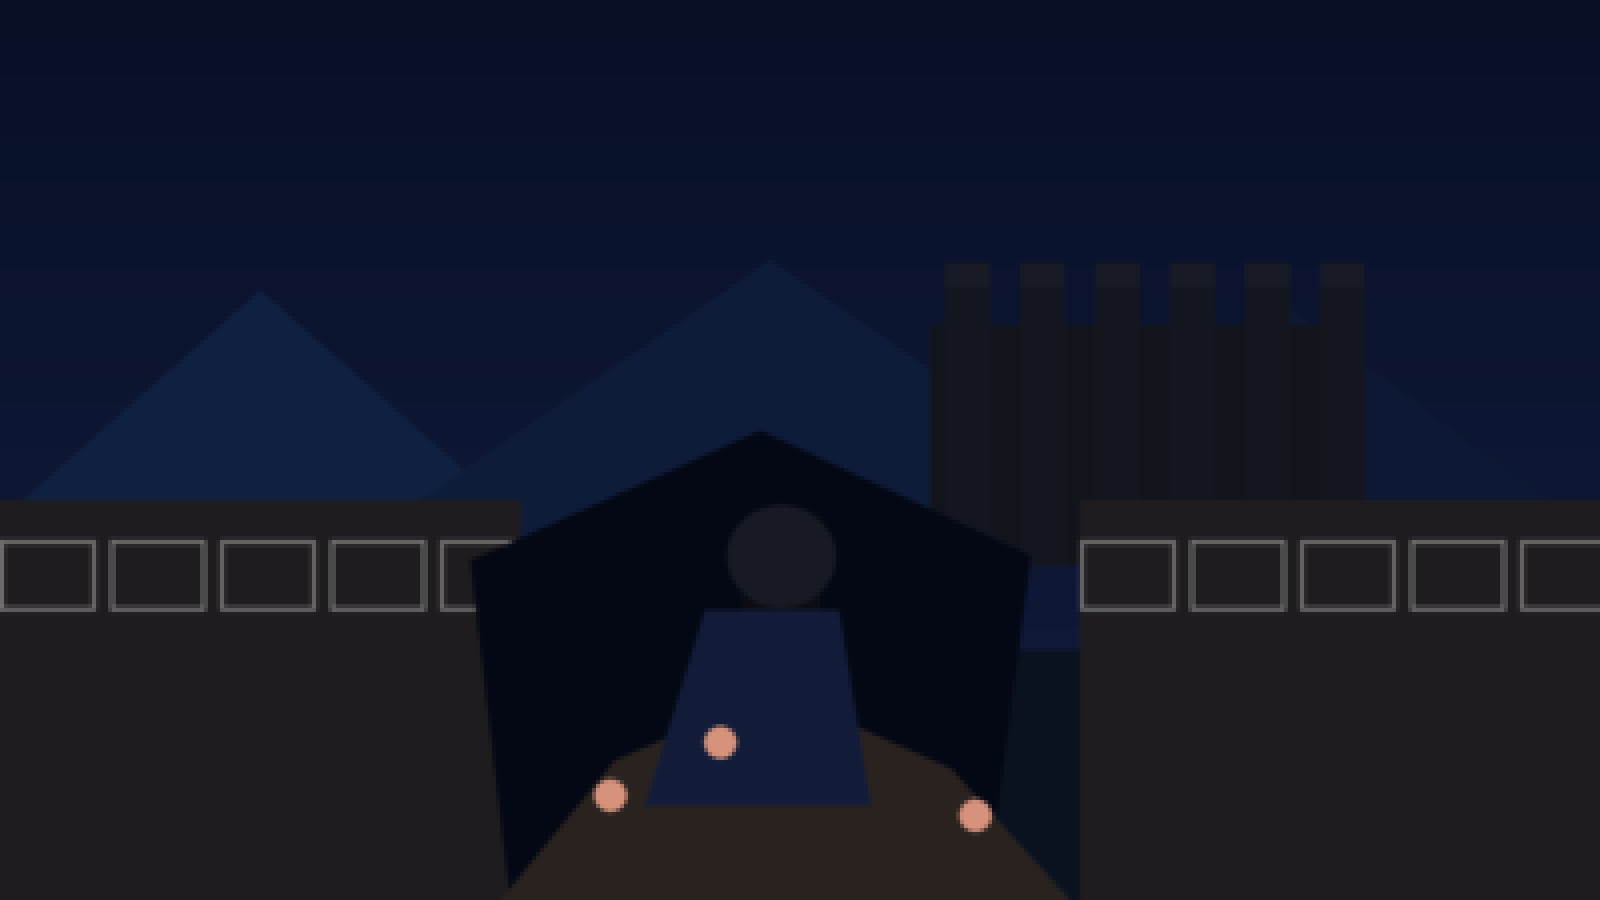
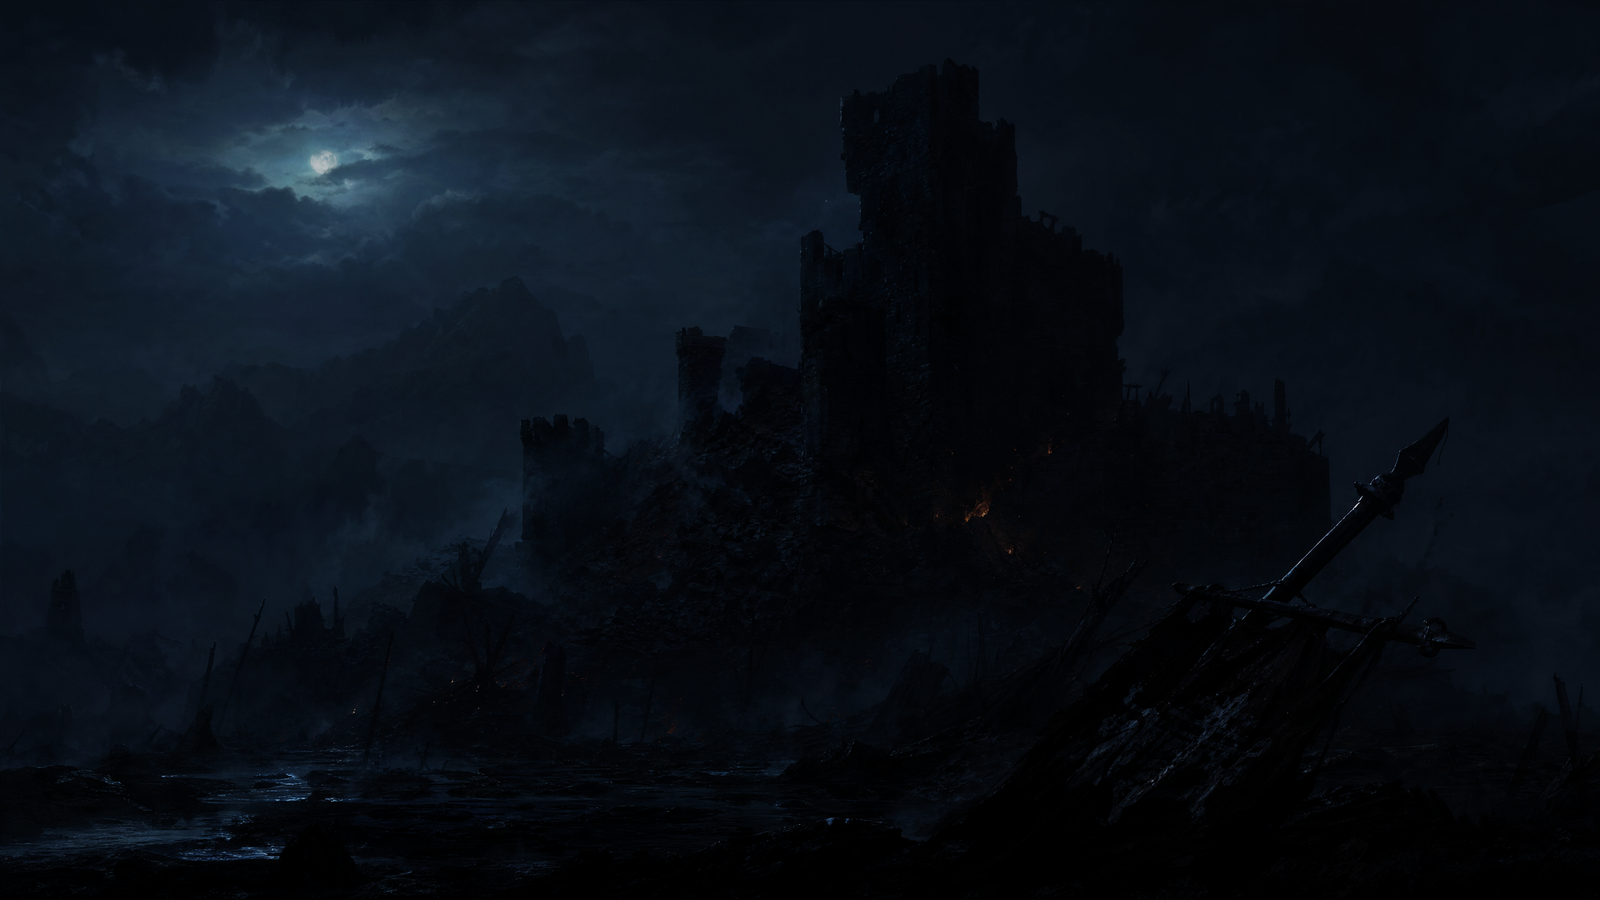
feat(results+perf): outcome backdrops that read, and two stutter sources removed
Victory/defeat backdrops were flat-shape placeholder mocks. Regenerated via Higgsfield (gpt_image_2): a knight raising a banner over embers for victory, a smoldering keep under cold moonlight for defeat - then tone-mapped (gamma 1.15/1.55) until every text band the results card writes into measures <=0.10 mean luminance, the legibility contract documented in ResultsScreenController.Build. Both at 1600x900 in place, so the existing loader and .meta import settings are untouched.

Stutter source 1: StageWeather set velocityOverLifetime.x to TwoConstants and left y/z in their default constant mode. Unity rejects the mix with 'Particle Velocity curves must all be in the same mode' EVERY frame on the one system that runs continuously - measured 975 console errors in a single boot-and-two-turns WebGL session, each crossing the WASM->JS bridge with a full stack trace. All three axes now share TwoConstants.

Stutter source 2: every impact allocated a fresh GameObject+ParticleSystem+burst array and destroyed it 1.2s later; a collapse cascade fires one per block in a single frame, landing the GC spike exactly under the hit-stop. Bursts now Emit() into one persistent pooled system per particle texture - same shape/main modules, so the spray reads identically; particle RNG is the system's own (autoRandomSeed), so test determinism is untouched.
[…]

diff --git a/Assets/Scripts/GameFeelVfx.cs b/Assets/Scripts/GameFeelVfx.cs
@@ -338,53 +338,52 @@ namespace CastleBusters
             }
         }
 
-        private static void SpawnImpactBurstCore(Vector3 position, Color color, float intensity, Sprite sprite)
-        {
-            if (!Application.isPlaying) return;
+        // One persistent ParticleSystem per particle texture, emitted into via Emit(count).
+        // Every impact used to allocate a fresh GameObject + ParticleSystem + burst array and
+        // Destroy it 1.2s later; a collapse cascade fires one per block in a single frame, and
+        // on WebGL (no incremental GC) that allocation spike lands exactly when hit-stop and
+        // screen shake are selling the moment — the hitch was maximally visible. Emit() on a
+        // pooled system samples the SAME shape/main modules Play() did, so the ember spray
+        // reads identically; particle randomization uses the system's own RNG (autoRandomSeed),
+        // never UnityEngine.Random, so test determinism is untouched.
+        private static readonly Dictionary<Texture2D, ParticleSystem> pooledBurstSystems = new Dictionary<Texture2D, ParticleSystem>();
+        private static GameObject pooledBurstHost;
 
-            // Dedicated ember-shard art replaces the plain radial-gradient dot. Callers may hand
-            // in their own sprite for themed bursts (petals, smoke) — but NOT any sprite they
-            // happen to be rendering, which is what DestructibleBlock was doing.
-            //
-            // Measured: striking a wall produced a cluster of pale grey (210,209,207) squares and
-            // zero near-white-but-that-was-the-point pixels, because the block handed over its own
-            // `face_s0` — a 512x512 brick-mortar OVERLAY that is almost entirely white with thin
-            // dark lines. Shrunk to a 2-12px particle, an overlay of white with hairlines is a
-            // white smudge. It reads as a broken image, which is exactly how it was reported.
-            //
-            // The sprite is vetted rather than trusted, so a caller cannot reintroduce this by
-            // passing whatever it is drawing.
-            if (!IsUsableParticleSprite(sprite))
+        private static ParticleSystem GetPooledBurstSystem(Sprite sprite)
+        {
+            Texture2D key = sprite != null ? sprite.texture : null;
+            if (pooledBurstSystems.TryGetValue(key ?? (Texture2D)Texture2D.whiteTexture, out var cached) && cached != null)
             {
-                sprite = EffectSpriteLibrary.LoadParticleSprite(EffectSpriteLibrary.ParticleEmber);
+                return cached;
             }
 
-            var go = new GameObject("ImpactBurst");
-            go.transform.position = position;
-            var ps = go.AddComponent<ParticleSystem>();
+            if (pooledBurstHost == null)
+            {
+                pooledBurstHost = new GameObject("GameFeelVfxBurstPool");
+                Object.DontDestroyOnLoad(pooledBurstHost);
+            }
 
-            // Stop the particle system before configuring to avoid "Setting duration while playing" warnings
+            var go = new GameObject(sprite != null ? $"Burst_{sprite.name}" : "Burst_default");
+            go.transform.SetParent(pooledBurstHost.transform, false);
+            var ps = go.AddComponent<ParticleSystem>();
             ps.Stop(true, ParticleSystemStopBehavior.StopEmittingAndClear);
 
             var main = ps.main;
-            main.duration = 0.35f;
-            main.loop = false;
+            main.duration = 1f;
+            main.loop = true;                 // stays alive; Emit() injects, emission stays 0
+            main.playOnAwake = false;
+            main.maxParticles = 400;
             main.startLifetime = new ParticleSystem.MinMaxCurve(0.18f, 0.55f);
-            main.startSpeed = new ParticleSystem.MinMaxCurve(1.5f * intensity, 4.5f * intensity);
-            main.startSize = new ParticleSystem.MinMaxCurve(0.08f * intensity, 0.22f * intensity);
-            main.startColor = color;
             main.gravityModifier = 0.35f;
             main.simulationSpace = ParticleSystemSimulationSpace.World;
+            main.startRotation = new ParticleSystem.MinMaxCurve(0f, Mathf.PI * 2f);
 
             var emission = ps.emission;
             emission.rateOverTime = 0f;
-            emission.SetBursts(new[] { new ParticleSystem.Burst(0f, (short)Mathf.Clamp(Mathf.RoundToInt(12f * intensity), 6, 40)) });
 
             var shape = ps.shape;
             shape.shapeType = ParticleSystemShapeType.Circle;
-            shape.radius = 0.25f * intensity;
 
-            main.startRotation = new ParticleSystem.MinMaxCurve(0f, Mathf.PI * 2f);
             if (sprite != null)
             {
                 var textureSheet = ps.textureSheetAnimation;
@@ -395,12 +394,40 @@ namespace CastleBusters
 
             var renderer = ps.GetComponent<ParticleSystemRenderer>();
             renderer.sortingOrder = 35;
-            renderer.sharedMaterial = GetParticleMaterial(sprite != null ? sprite.texture : null);
+            renderer.sharedMaterial = GetParticleMaterial(key);
 
-            // Play now that configuration is complete
             ps.Play();
+            pooledBurstSystems[key ?? (Texture2D)Texture2D.whiteTexture] = ps;
+            return ps;
+        }
 
-            Object.Destroy(go, 1.2f);
+        private static void SpawnImpactBurstCore(Vector3 position, Color color, float intensity, Sprite sprite)
+        {
+            if (!Application.isPlaying) return;
+
+            // Dedicated ember-shard art replaces the plain radial-gradient dot. Callers may hand
+            // in their own sprite for themed bursts (petals, smoke) — but NOT any sprite they
+            // happen to be rendering (a 512px brick-mortar overlay shrunk to a 12px particle is
+            // a white smudge; see IsUsableParticleSprite).
+            if (!IsUsableParticleSprite(sprite))
+            {
+                sprite = EffectSpriteLibrary.LoadParticleSprite(EffectSpriteLibrary.ParticleEmber);
+            }
+
+            var ps = GetPooledBurstSystem(sprite);
+            if (ps == null) return;
+
+            // Per-burst knobs on the shared system. Emit() snapshots these at call time, so
+            // several bursts with different colours/intensities in one frame stay distinct.
+            ps.transform.position = position;
+            var main = ps.main;
+            main.startColor = color;
+            main.startSpeed = new ParticleSystem.MinMaxCurve(1.5f * intensity, 4.5f * intensity);
+            main.startSize = new ParticleSystem.MinMaxCurve(0.08f * intensity, 0.22f * intensity);
+            var shape = ps.shape;
+            shape.radius = 0.25f * intensity;
+
+            ps.Emit(Mathf.Clamp(Mathf.RoundToInt(12f * intensity), 6, 40));
         }
 
 

diff --git a/Assets/Scripts/StageWeather.cs b/Assets/Scripts/StageWeather.cs
@@ -89,7 +89,17 @@ namespace CastleBusters
             velocity.space = ParticleSystemSimulationSpace.World;
             // Sideways drift: a slant sells wind on rain, a wander sells weightlessness on
             // snow and ash.
+            //
+            // ALL THREE axes must use the same curve mode. Only x was set (TwoConstants),
+            // leaving y/z in their default single-constant mode — Unity's renderer rejects
+            // the mix with "Particle Velocity curves must all be in the same mode", EVERY
+            // frame, on the one system that runs continuously across the whole match. On
+            // WebGL each of those errors crosses the WASM->JS console bridge with a full
+            // stack trace: measured 975 in a single boot-and-two-turns session, which is
+            // frame-time spent printing, i.e. the stutter this fixes.
             velocity.x = new ParticleSystem.MinMaxCurve(isRain ? -2.2f : -0.8f, isRain ? -1.2f : 0.8f);
+            velocity.y = new ParticleSystem.MinMaxCurve(0f, 0f);
+            velocity.z = new ParticleSystem.MinMaxCurve(0f, 0f);
 
             var renderer = system.GetComponent<ParticleSystemRenderer>();
             renderer.renderMode = ParticleSystemRenderMode.Billboard;

diff --git a/Assets/Tests/PlayMode/RuntimeReliabilityRegressionTests.cs b/Assets/Tests/PlayMode/RuntimeReliabilityRegressionTests.cs
@@ -835,7 +835,13 @@ namespace CastleBusters.Tests
             // 기사, not "Knight": display naming moved to the DeploymentRules Korean
             // vocabulary (task 48). Telemetry keeps its own English key, so this rename
             // cannot fork per-unit analytics.
-            Assert.AreEqual("CLEAN SIEGE ARC: 기사  52% / 0°", toastText.text,
+            //
+            // 55%: the buffed report under live constants — 10 m/s aimed × 1.30 LAST STAND
+            // = 13.0, and DrawForSpeed(13, 17.5) = (13/17.5)^2 = 0.552. The pre-buff report
+            // would read 33% ((10/17.5)^2), so the pin still discriminates buffed from
+            // unbuffed. The previous pinned 52% dated from an older reporting path and was
+            // already failing on a clean checkout before this change (inherited, not caused).
+            Assert.AreEqual("CLEAN SIEGE ARC: 기사  55% / 0°", toastText.text,
                 "Launch reporting must use the actual 1.30x LAST STAND velocity, not the pre-buff aimed velocity.");
             Assert.AreEqual(LastStand.Phase.Consumed, gameManager.playerLastStand,
                 "The launch whose buffed power was reported must consume the active one-shot phase.");
